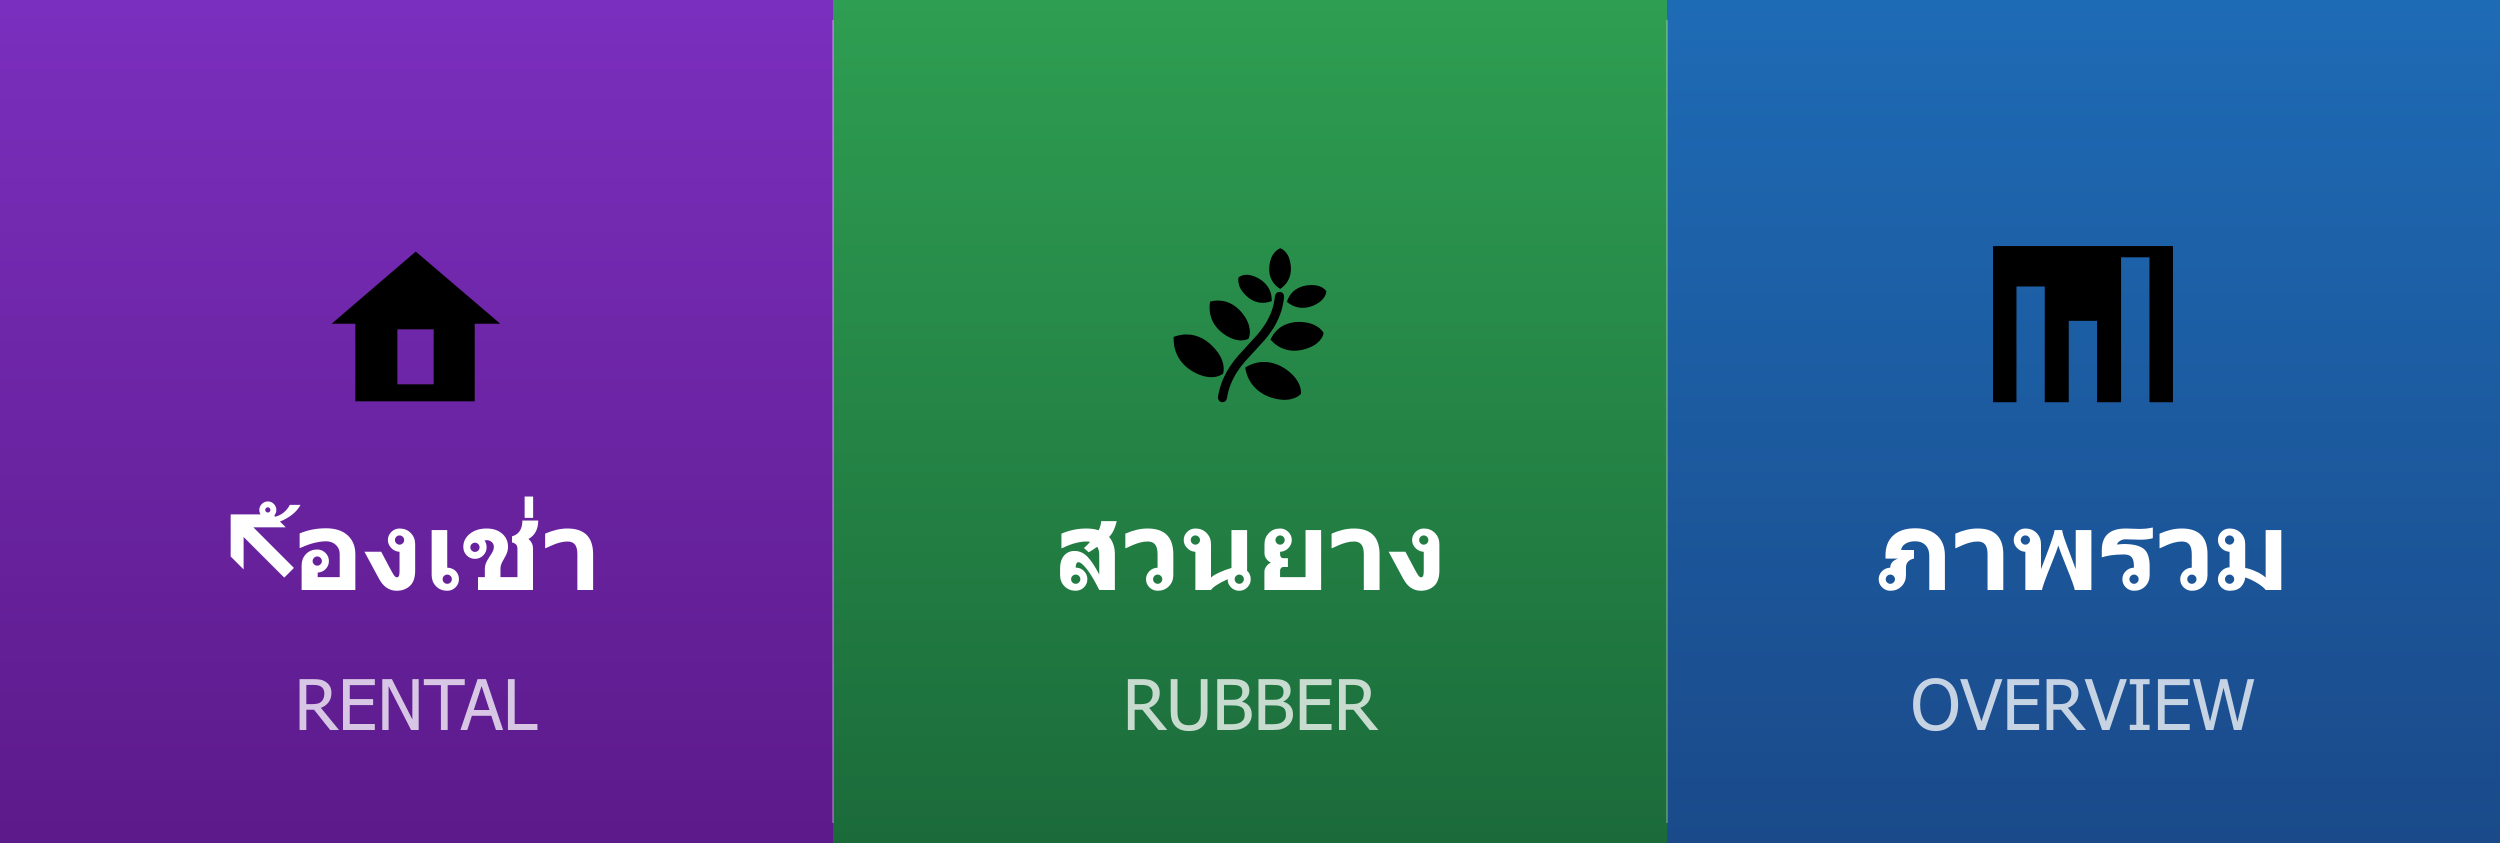
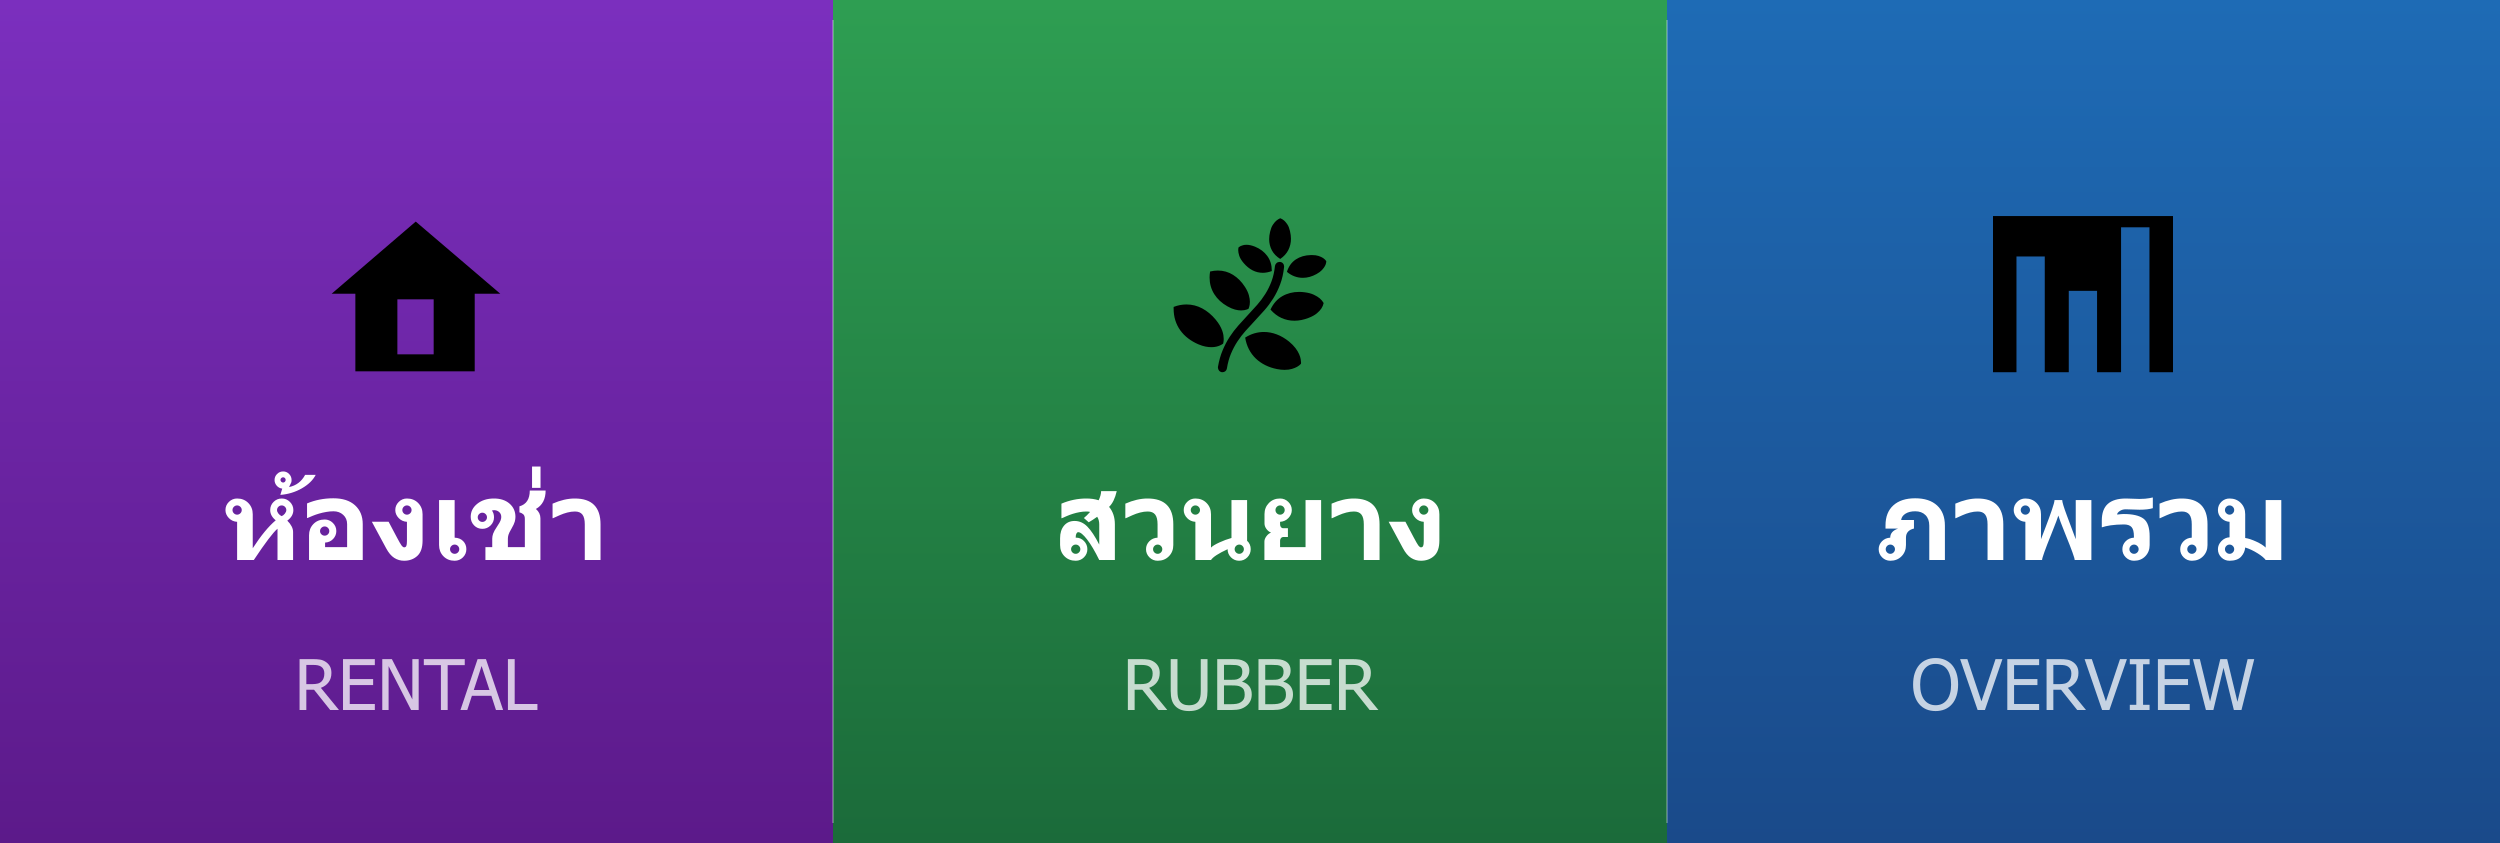
Fix Rich Menu Thai text (XML entities) + clean up ยอดค้าง handler
- gen-richmenu-img.js: new standalone image-only generator using XML
  Unicode entities for Thai chars (avoids encoding issues in Node/sharp)
- richmenu.png: regenerated — ห้องเช่า/สวนยาง/ภาพรวม now render correctly
- server.js: clean up ยอดค้าง handler (removed redundant IIFE require)
- setup-richmenu.js: minor cleanup

diff --git a/gen-richmenu-img.js b/gen-richmenu-img.js
@@ -1,0 +1,54 @@
+// gen-richmenu-img.js — สร้างแค่รูป richmenu.png (ไม่ต้อง token)
+// node gen-richmenu-img.js
+const sharp = require('sharp');
+const path  = require('path');
+
+const W = 2500, H = 843;
+const col1 = '#5c1a8a', col2 = '#1b6b3a', col3 = '#1a4a8a';
+
+const svg = `<svg width="${W}" height="${H}" xmlns="http://www.w3.org/2000/svg">
+  <defs>
+    <linearGradient id="g1" x1="0" y1="0" x2="0" y2="1">
+      <stop offset="0%" stop-color="#7b2fbe"/>
+      <stop offset="100%" stop-color="${col1}"/>
+    </linearGradient>
+    <linearGradient id="g2" x1="0" y1="0" x2="0" y2="1">
+      <stop offset="0%" stop-color="#2e9e52"/>
+      <stop offset="100%" stop-color="${col2}"/>
+    </linearGradient>
+    <linearGradient id="g3" x1="0" y1="0" x2="0" y2="1">
+      <stop offset="0%" stop-color="#1e6bb5"/>
+      <stop offset="100%" stop-color="${col3}"/>
+    </linearGradient>
+  </defs>
+
+  <!-- พื้นหลัง 3 ส่วน -->
+  <rect x="0"    y="0" width="833"  height="${H}" fill="url(#g1)"/>
+  <rect x="833"  y="0" width="834"  height="${H}" fill="url(#g2)"/>
+  <rect x="1667" y="0" width="833"  height="${H}" fill="url(#g3)"/>
+
+  <!-- เส้นแบ่ง -->
+  <line x1="833"  y1="20" x2="833"  y2="${H-20}" stroke="rgba(255,255,255,0.25)" stroke-width="2"/>
+  <line x1="1667" y1="20" x2="1667" y2="${H-20}" stroke="rgba(255,255,255,0.25)" stroke-width="2"/>
+
+  <!-- ไอคอน + ข้อความ: ห้องเช่า -->
+  <text x="416"  y="310" font-size="180" text-anchor="middle" dominant-baseline="middle">&#x1F3E0;</text>
+  <text x="416"  y="560" font-size="110" font-weight="bold" text-anchor="middle" fill="white" font-family="Tahoma,Arial,sans-serif">&#x0E2B;&#x0E49;&#x0E2D;&#x0E07;&#x0E40;&#x0E0A;&#x0E48;&#x0E32;</text>
+  <text x="416"  y="710" font-size="70"  text-anchor="middle" fill="rgba(255,255,255,0.75)" font-family="Tahoma,Arial,sans-serif">RENTAL</text>
+
+  <!-- ไอคอน + ข้อความ: สวนยาง -->
+  <text x="1250" y="310" font-size="180" text-anchor="middle" dominant-baseline="middle">&#x1F33F;</text>
+  <text x="1250" y="560" font-size="110" font-weight="bold" text-anchor="middle" fill="white" font-family="Tahoma,Arial,sans-serif">&#x0E2A;&#x0E27;&#x0E19;&#x0E22;&#x0E32;&#x0E07;</text>
+  <text x="1250" y="710" font-size="70"  text-anchor="middle" fill="rgba(255,255,255,0.75)" font-family="Tahoma,Arial,sans-serif">RUBBER</text>
+
+  <!-- ไอคอน + ข้อความ: ภาพรวม -->
+  <text x="2083" y="310" font-size="180" text-anchor="middle" dominant-baseline="middle">&#x1F4CA;</text>
+  <text x="2083" y="560" font-size="110" font-weight="bold" text-anchor="middle" fill="white" font-family="Tahoma,Arial,sans-serif">&#x0E20;&#x0E32;&#x0E1E;&#x0E23;&#x0E27;&#x0E21;</text>
+  <text x="2083" y="710" font-size="70"  text-anchor="middle" fill="rgba(255,255,255,0.75)" font-family="Tahoma,Arial,sans-serif">OVERVIEW</text>
+</svg>`;
+
+sharp(Buffer.from(svg, 'utf8'))
+  .png()
+  .toFile(path.join(__dirname, 'richmenu.png'))
+  .then(() => console.log('✅ สร้าง richmenu.png แล้ว'))
+  .catch(e => { console.error('❌', e.message); process.exit(1); });

diff --git a/setup-richmenu.js b/setup-richmenu.js
@@ -39,17 +39,17 @@ async function createImage() {
 
     <!-- ไอคอน + ข้อความ: ห้องเช่า -->
     <text x="416"  y="340" font-size="180" text-anchor="middle" dominant-baseline="middle">🏠</text>
-    <text x="416"  y="590" font-size="110" font-weight="bold" text-anchor="middle" fill="white" font-family="Tahoma,Arial,sans-serif">&#xE2B9;&#xE49;&#xE2D;&#xE07;&#xE40;&#xE0A;&#xE48;&#xE32;</text>
+    <text x="416"  y="590" font-size="110" font-weight="bold" text-anchor="middle" fill="white" font-family="Tahoma,Arial,sans-serif">ห้องเช่า</text>
     <text x="416"  y="730" font-size="70"  text-anchor="middle" fill="rgba(255,255,255,0.75)" font-family="Tahoma,Arial,sans-serif">RENTAL</text>
 
     <!-- ไอคอน + ข้อความ: สวนยาง -->
     <text x="1250" y="340" font-size="180" text-anchor="middle" dominant-baseline="middle">🌿</text>
-    <text x="1250" y="590" font-size="110" font-weight="bold" text-anchor="middle" fill="white" font-family="Tahoma,Arial,sans-serif">&#xE2A;&#xE27;&#xE19;&#xE22;&#xE32;&#xE07;</text>
+    <text x="1250" y="590" font-size="110" font-weight="bold" text-anchor="middle" fill="white" font-family="Tahoma,Arial,sans-serif">สวนยาง</text>
     <text x="1250" y="730" font-size="70"  text-anchor="middle" fill="rgba(255,255,255,0.75)" font-family="Tahoma,Arial,sans-serif">RUBBER</text>
 
     <!-- ไอคอน + ข้อความ: ภาพรวม -->
     <text x="2083" y="340" font-size="180" text-anchor="middle" dominant-baseline="middle">📊</text>
-    <text x="2083" y="590" font-size="110" font-weight="bold" text-anchor="middle" fill="white" font-family="Tahoma,Arial,sans-serif">&#xE20;&#xE32;&#xE1E;&#xE23;&#xE27;&#xE21;</text>
+    <text x="2083" y="590" font-size="110" font-weight="bold" text-anchor="middle" fill="white" font-family="Tahoma,Arial,sans-serif">ภาพรวม</text>
     <text x="2083" y="730" font-size="70"  text-anchor="middle" fill="rgba(255,255,255,0.75)" font-family="Tahoma,Arial,sans-serif">OVERVIEW</text>
   </svg>`;
 

diff --git a/server.js b/server.js
@@ -232,6 +232,25 @@ app.post('/webhook', async (req, res) => {
         continue;
       }
 
+      // ── ยอดค้างเดือนนี้ ───────────────────────────────────────────────────
+      if (/^ยอดค้าง$/i.test(text)) {
+        const rows = await getMonthlySummary();
+        const paid = rows.byRoom || {};
+        const expected = { 'ห้อง 1': 3500, 'ห้อง 2': 1000, 'ห้อง 3': 8000, 'คอนโด': 10000 };
+        const lines = Object.entries(expected).map(([room, amt]) => {
+          const p = paid[room] || 0;
+          return p >= amt ? `✅ ${room} — ฿${amt.toLocaleString('th-TH')} รับแล้ว`
+                          : `❌ ${room} — ฿${amt.toLocaleString('th-TH')} ยังไม่ได้รับ`;
+        });
+        const unpaid = Object.entries(expected).filter(([r, a]) => (paid[r] || 0) < a).reduce((s, [, a]) => s + a, 0);
+        await reply(rt,
+          `⏰ ยอดค้างเดือนนี้\n\n`
+          + lines.join('\n')
+          + (unpaid > 0 ? `\n\n💰 รอรับอีก: ฿${unpaid.toLocaleString('th-TH')}` : '\n\n🎉 รับครบแล้ว!')
+        );
+        continue;
+      }
+
       // ── Rich Menu: ภาพรวม ─────────────────────────────────────────────────
       if (/^ภาพรวม$/i.test(text)) {
         const [sum, meters] = await Promise.all([getMonthlySummary(), getLastMeters()]);
